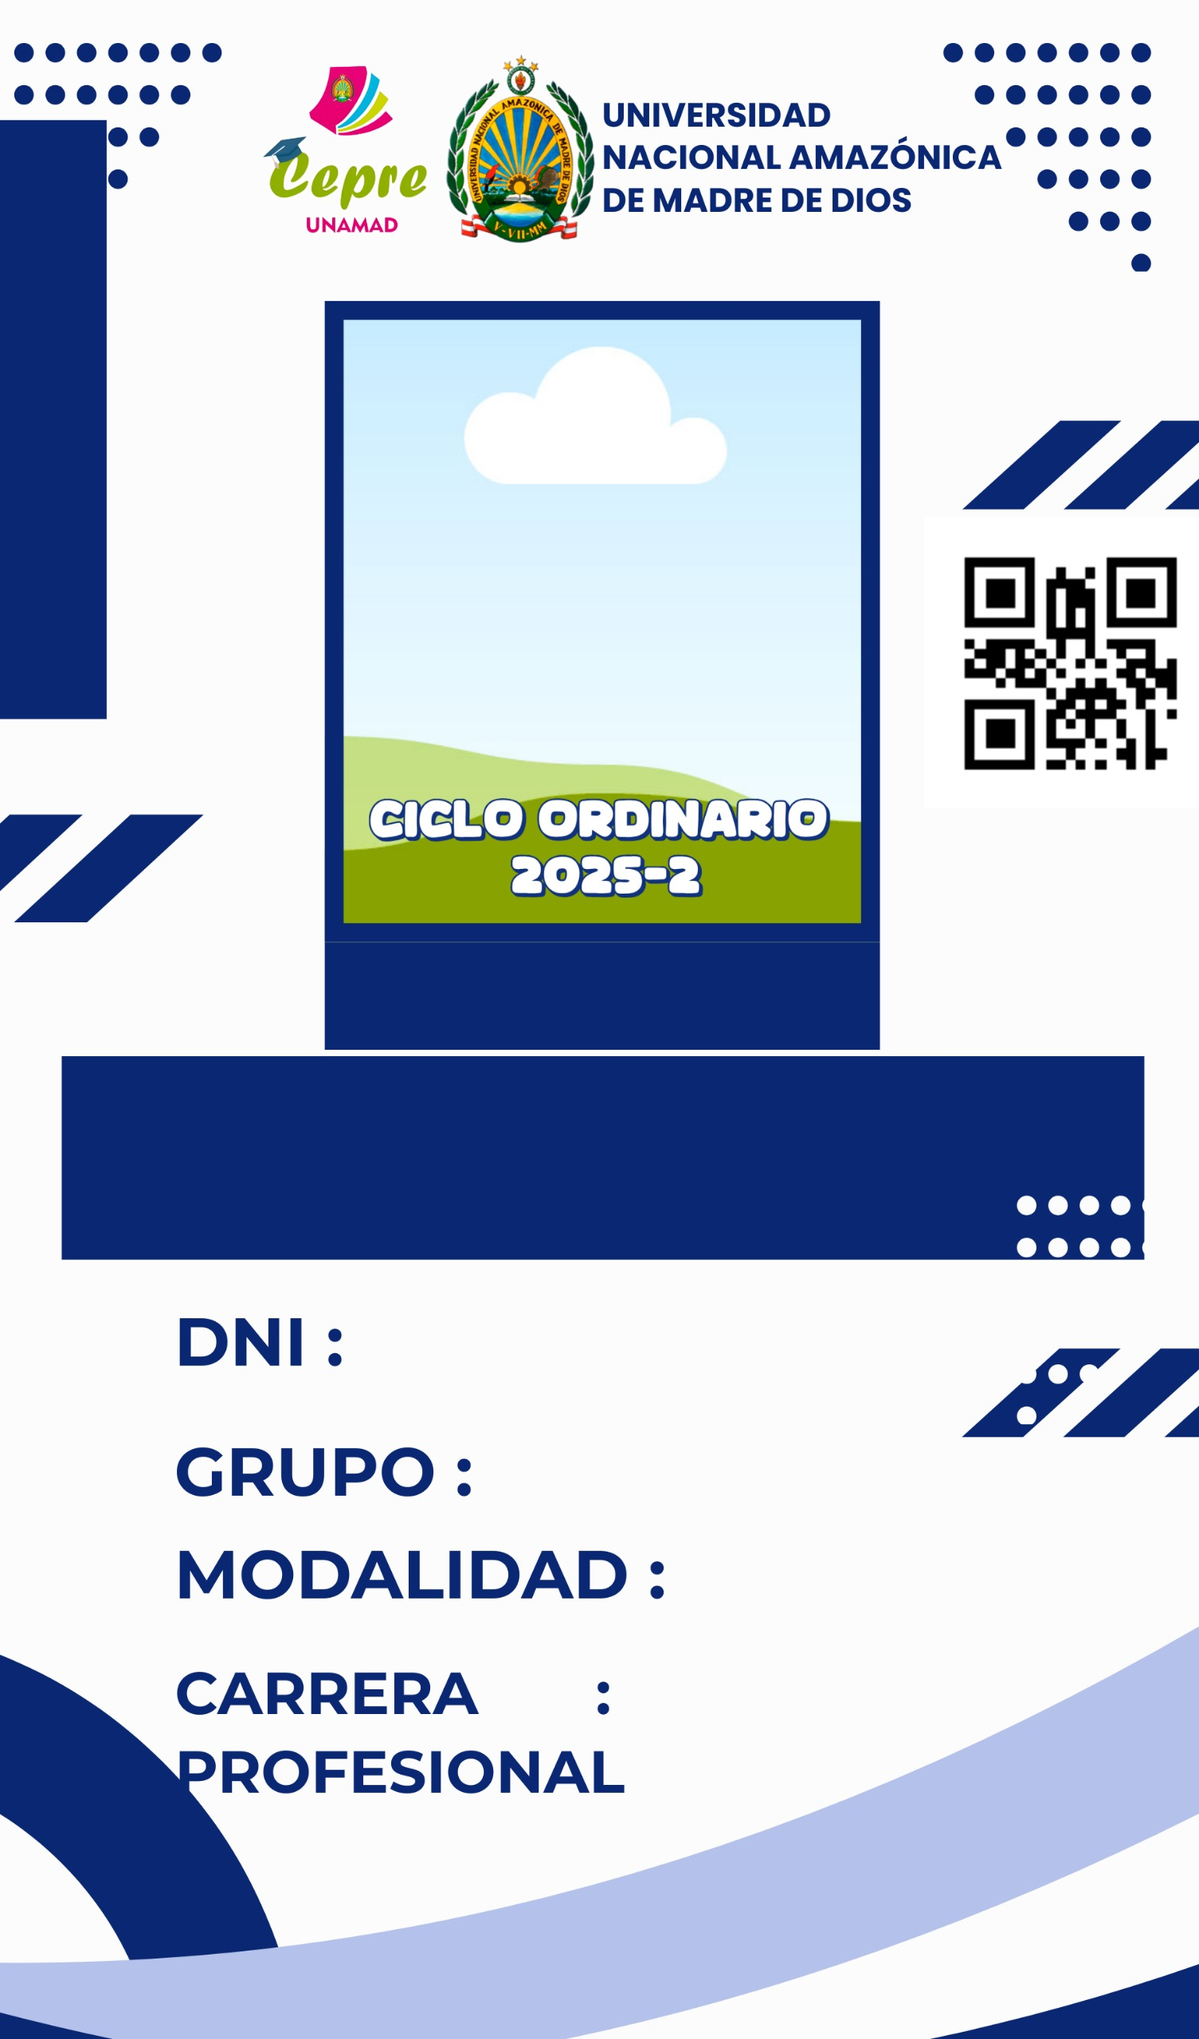
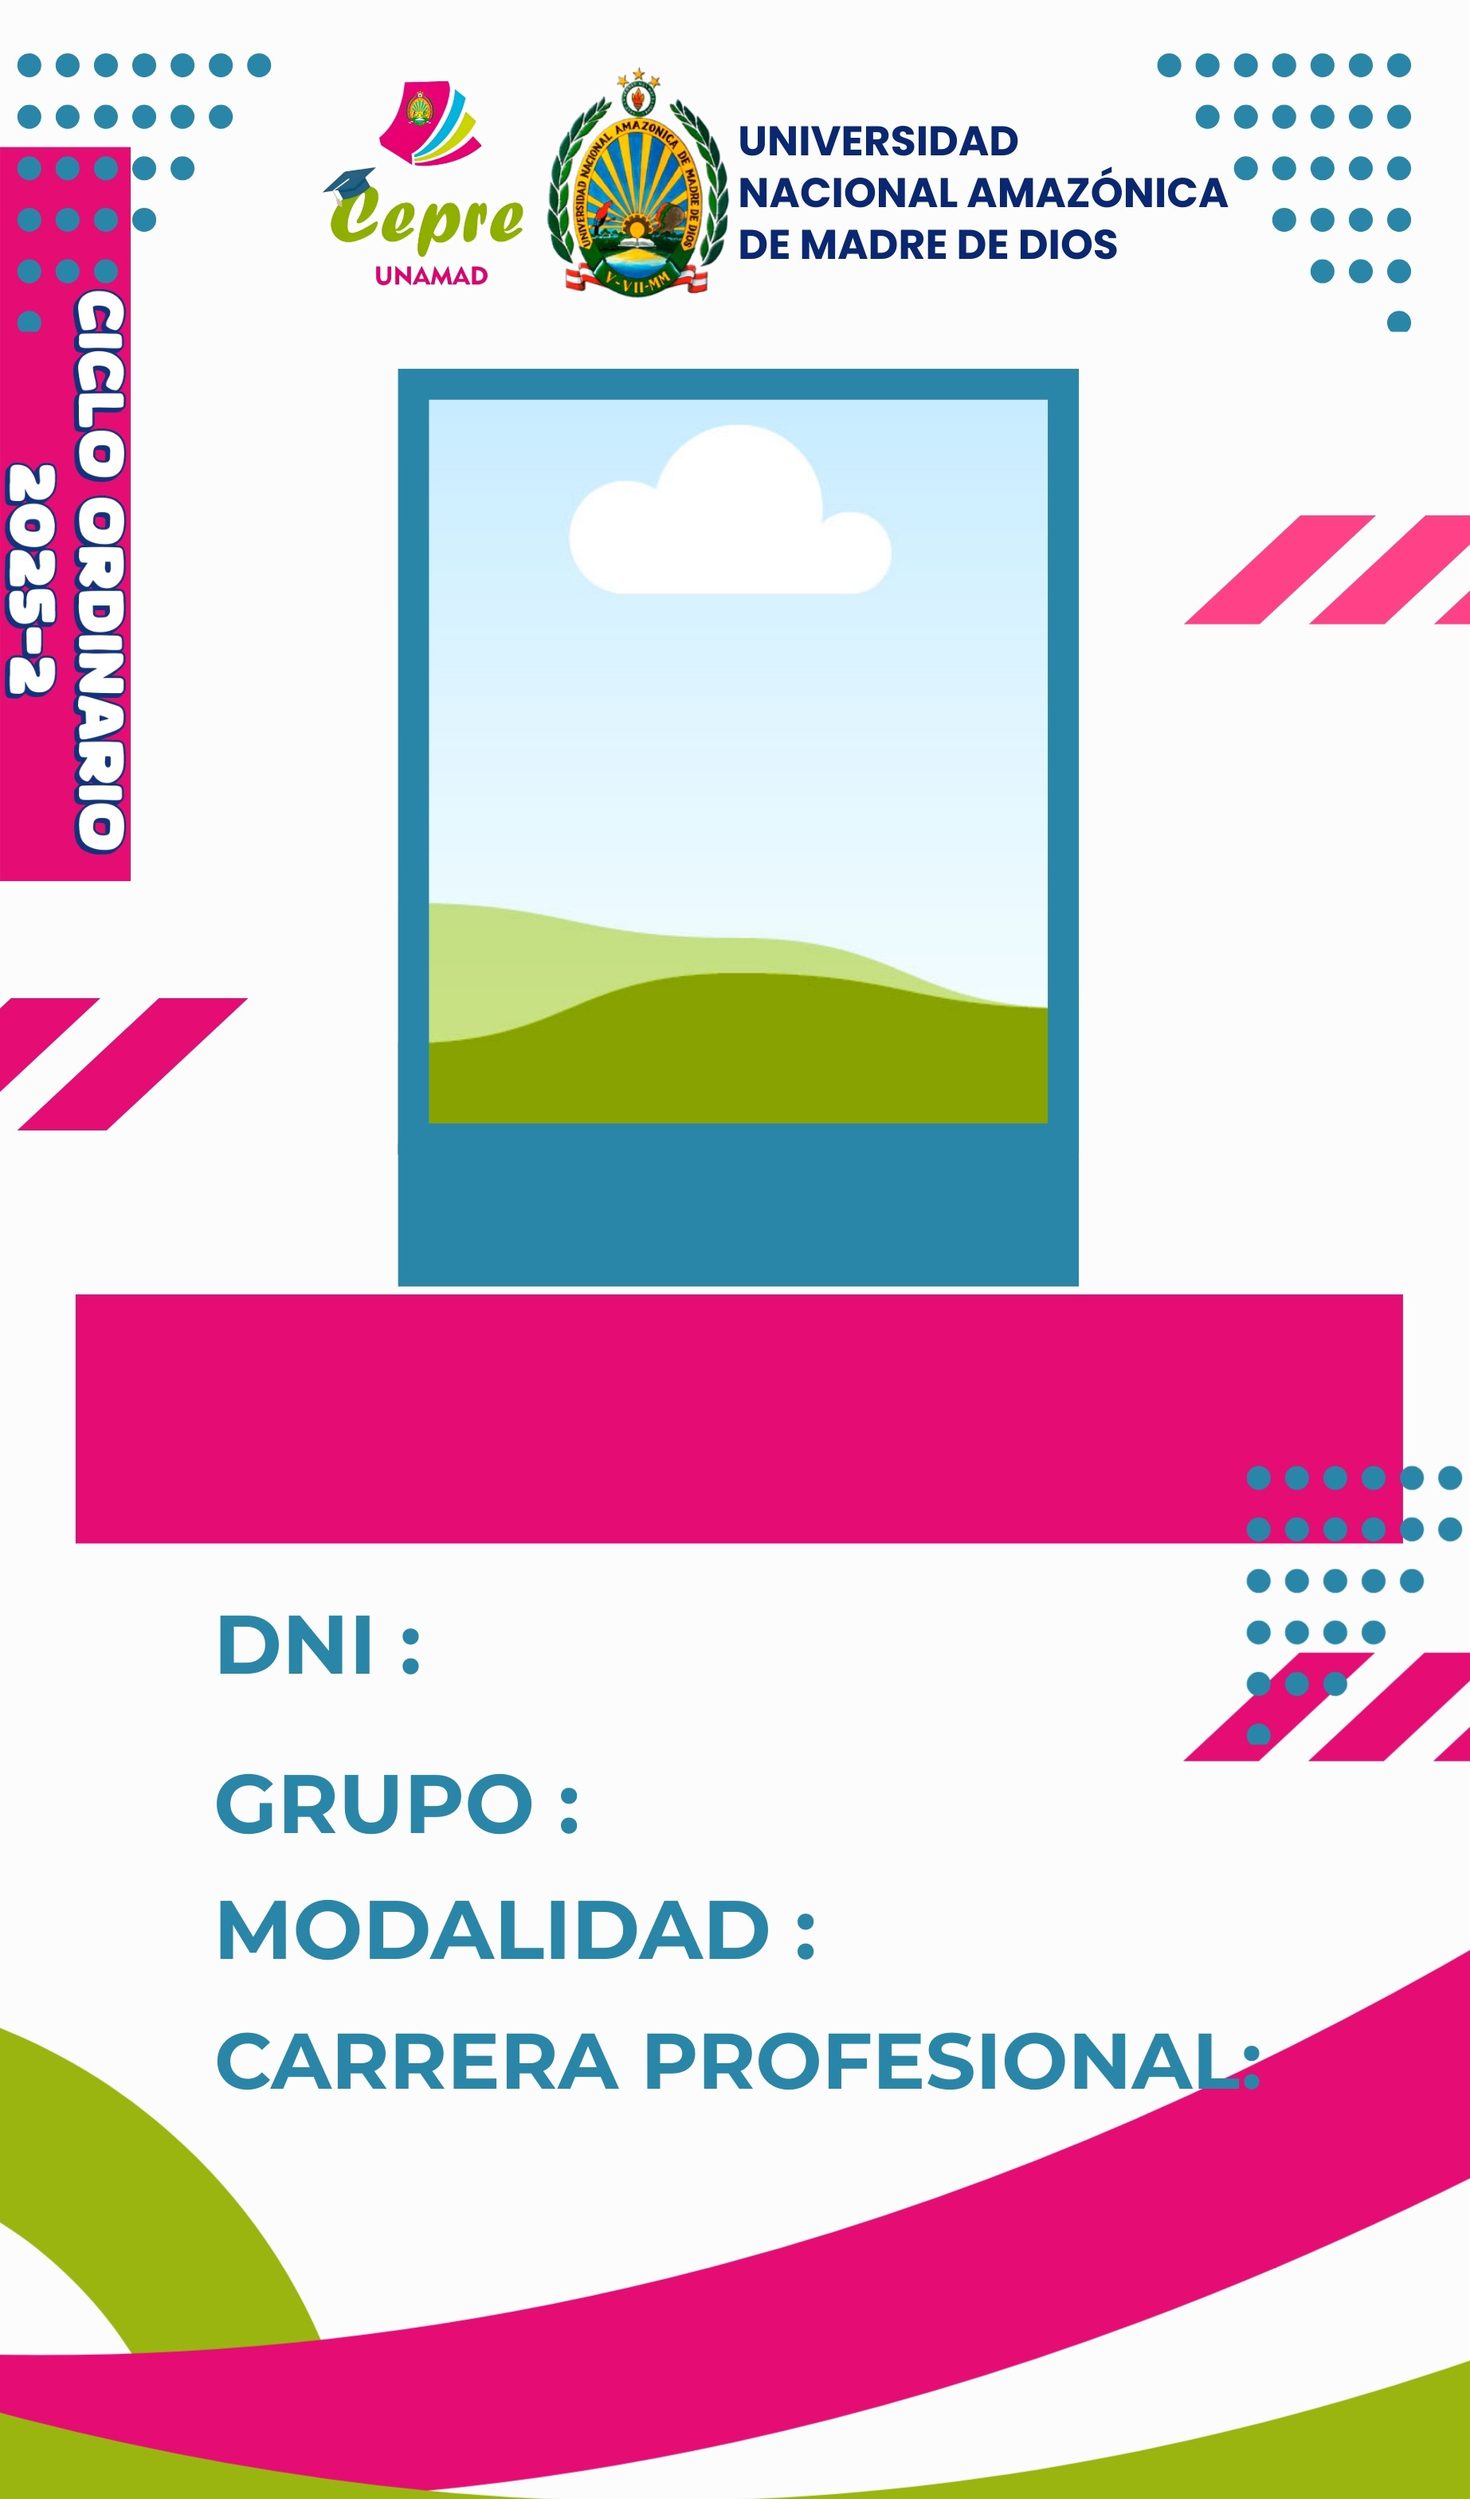
Fix: Implementar fecha de impresión como marca de agua en carnets

diff --git a/resources/views/carnets/pdf.blade.php b/resources/views/carnets/pdf.blade.php
@@ -127,6 +127,19 @@
             font-size: 7pt;
             color: #666;
         }
+        
+        /* Variante de marca de agua más discreta */
+        .fecha-impresion-discreta {
+            position: absolute;
+            bottom: 1mm;
+            right: 2mm;
+            font-size: 4pt;
+            color: rgba(0, 0, 0, 0.15);
+            z-index: 3;
+            opacity: 0.6;
+            font-weight: 200;
+        }
+        
     </style>
 </head>
 <body>
@@ -137,11 +150,11 @@
         <img src="{{ $carnet['fondo'] }}" class="carnet-background" alt="Fondo">
         @endif
         
-        <!-- Contenido del carnet - Solo elementos dinámicos que se sobreponen al fondo -->
+        <!-- Contenido del carnet CON padding -->
         <div class="carnet-content">
             
             @if($carnet['foto'])
-            <!-- Foto del estudiante - ancho reducido un poco -->
+            <!-- Foto del estudiante -->
             <div style="position: absolute; left: 50%; transform: translateX(-70%); top: 13.5mm; width: 24mm; height: 26mm; overflow: hidden;">
                 <img src="{{ $carnet['foto'] }}" style="width: 100%; height: 100%; object-fit: cover;" alt="Foto">
             </div>
@@ -154,43 +167,52 @@
             </div>
             @endif
             
-            <!-- Ciclo - más a la izquierda -->
+            <!-- Ciclo -->
+             <!--
             <div style="position: absolute; left: 50%; transform: translateX(-65%); top: 33mm; width: 35mm; text-align: center; font-size: 7pt; font-weight: bold; color: white; text-shadow: 2px 2px 4px rgba(0,0,0,0.9);">
                 CICLO ORDINARIO<br>{{ str_replace('CICLO ORDINARIO ', '', strtoupper($carnet['ciclo'])) }}
             </div>
+            -->
             
-            <!-- Código del postulante - aún más a la izquierda y bajado -->
+            <!-- Código del postulante -->
             <div style="position: absolute; left: 50%; transform: translateX(-70%); top: 39.5mm; text-align: center; font-size: 11pt; font-weight: bold; color: white; letter-spacing: 1mm;">
                 {{ $carnet['codigo_postulante'] }}
             </div>
             
-            <!-- Nombre del estudiante - tamaño reducido -->
+            <!-- Nombre del estudiante -->
             <div style="position: absolute; left: 46%; transform: translateX(-55%); top: 44.9mm; color: white; text-align: center; font-weight: 100; font-size: 9pt; letter-spacing: 0.2mm;">
                 {{ strtoupper($carnet['nombre_completo']) }}
             </div>
             
-            <!-- Datos del estudiante - ajustados según indicaciones -->
-            <!-- DNI - bajar un poquito -->
+            <!-- DNI -->
             <div style="position: absolute; left: 17mm; top: 55mm; color: #003d7a; font-size: 8pt;">
                 {{ $carnet['dni'] }}
             </div>
-            
-            <!-- GRUPO - bajar un poquito -->
+      
+            <!-- Grupo -->
             <div style="position: absolute; left: 22mm; top: 60mm; color: #003d7a; font-size: 8pt;">
                 {{ $carnet['grupo'] }}
             </div>
             
-            <!-- MODALIDAD - bajar un poquito -->
+            <!-- Modalidad -->
             <div style="position: absolute; left: 30mm; top: 64.5mm; color: #003d7a; font-size: 8pt;">
                 POSTULANTE
             </div>
             
-            <!-- CARRERA PROFESIONAL - más a la izquierda, tamaño reducido y letras gruesas -->
-            <div style="position: absolute; left: 50%; transform: translateX(-60%); top: 77mm; color: #003d7a; font-size: 7pt; font-weight: bold; text-align: center;">
+            <!-- Carrera profesional -->
+            <div style="position: absolute; left: 45%; transform: translateX(-60%); top: 73mm; color: #003d7a; font-size: 8pt; font-weight: bold; text-align: center;">
                 {{ strtoupper($carnet['carrera']) }}
             </div>
+            
+        </div> <!-- FIN del carnet-content -->
+
+        <!--Marca de agua muy discreta -->
+        
+        <div class="fecha-impresion-discreta">
+            {{ now()->format('d/m/Y') }}
         </div>
-    </div>
+
+    </div> <!-- FIN del carnet-container -->
     @endforeach
 </body>
 </html>

diff --git a/app/Http/Controllers/CarnetController.php b/app/Http/Controllers/CarnetController.php
@@ -405,7 +405,8 @@ Exception $e) {
                 'fecha_vencimiento' => $carnet->fecha_vencimiento->format('d/m/Y'),
                 'foto' => $foto,
                 'qr_code' => $qrCode,
-                'fondo' => $fondo
+                'fondo' => $fondo,
+                'fecha_impresion' => Carbon::now()->format('d/m/Y H:i')
             ];
         });
 
